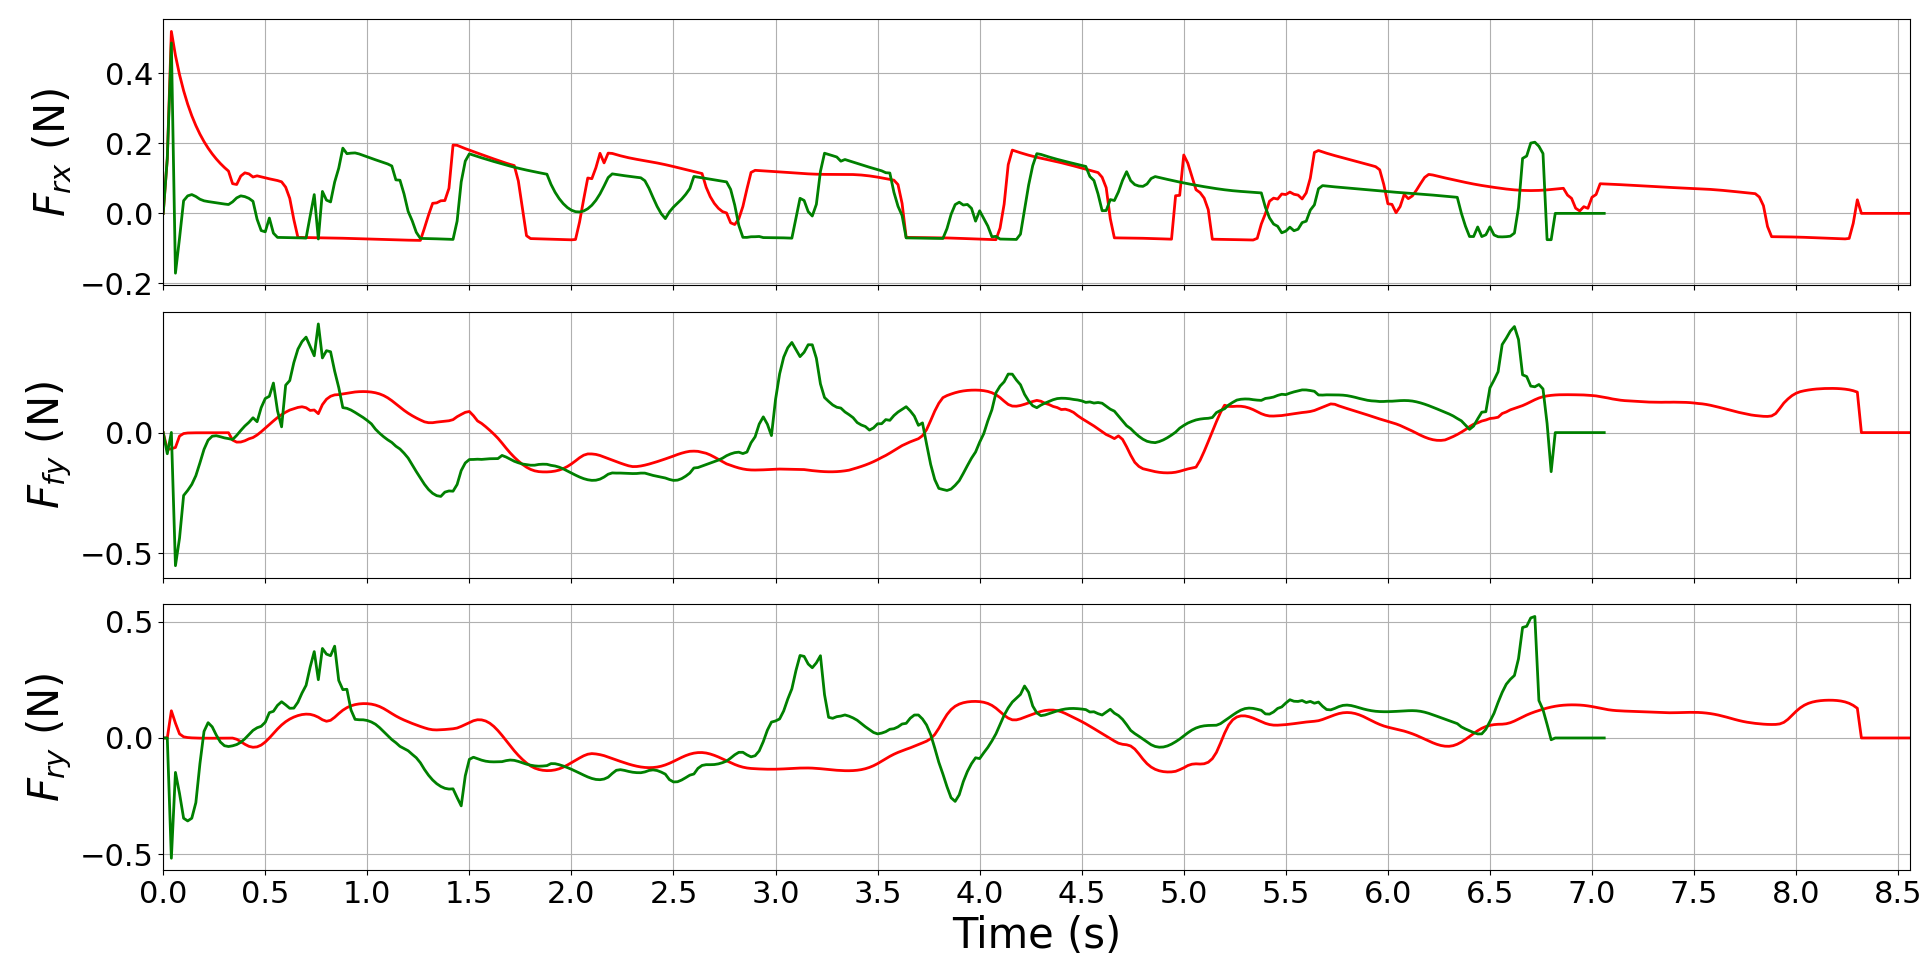
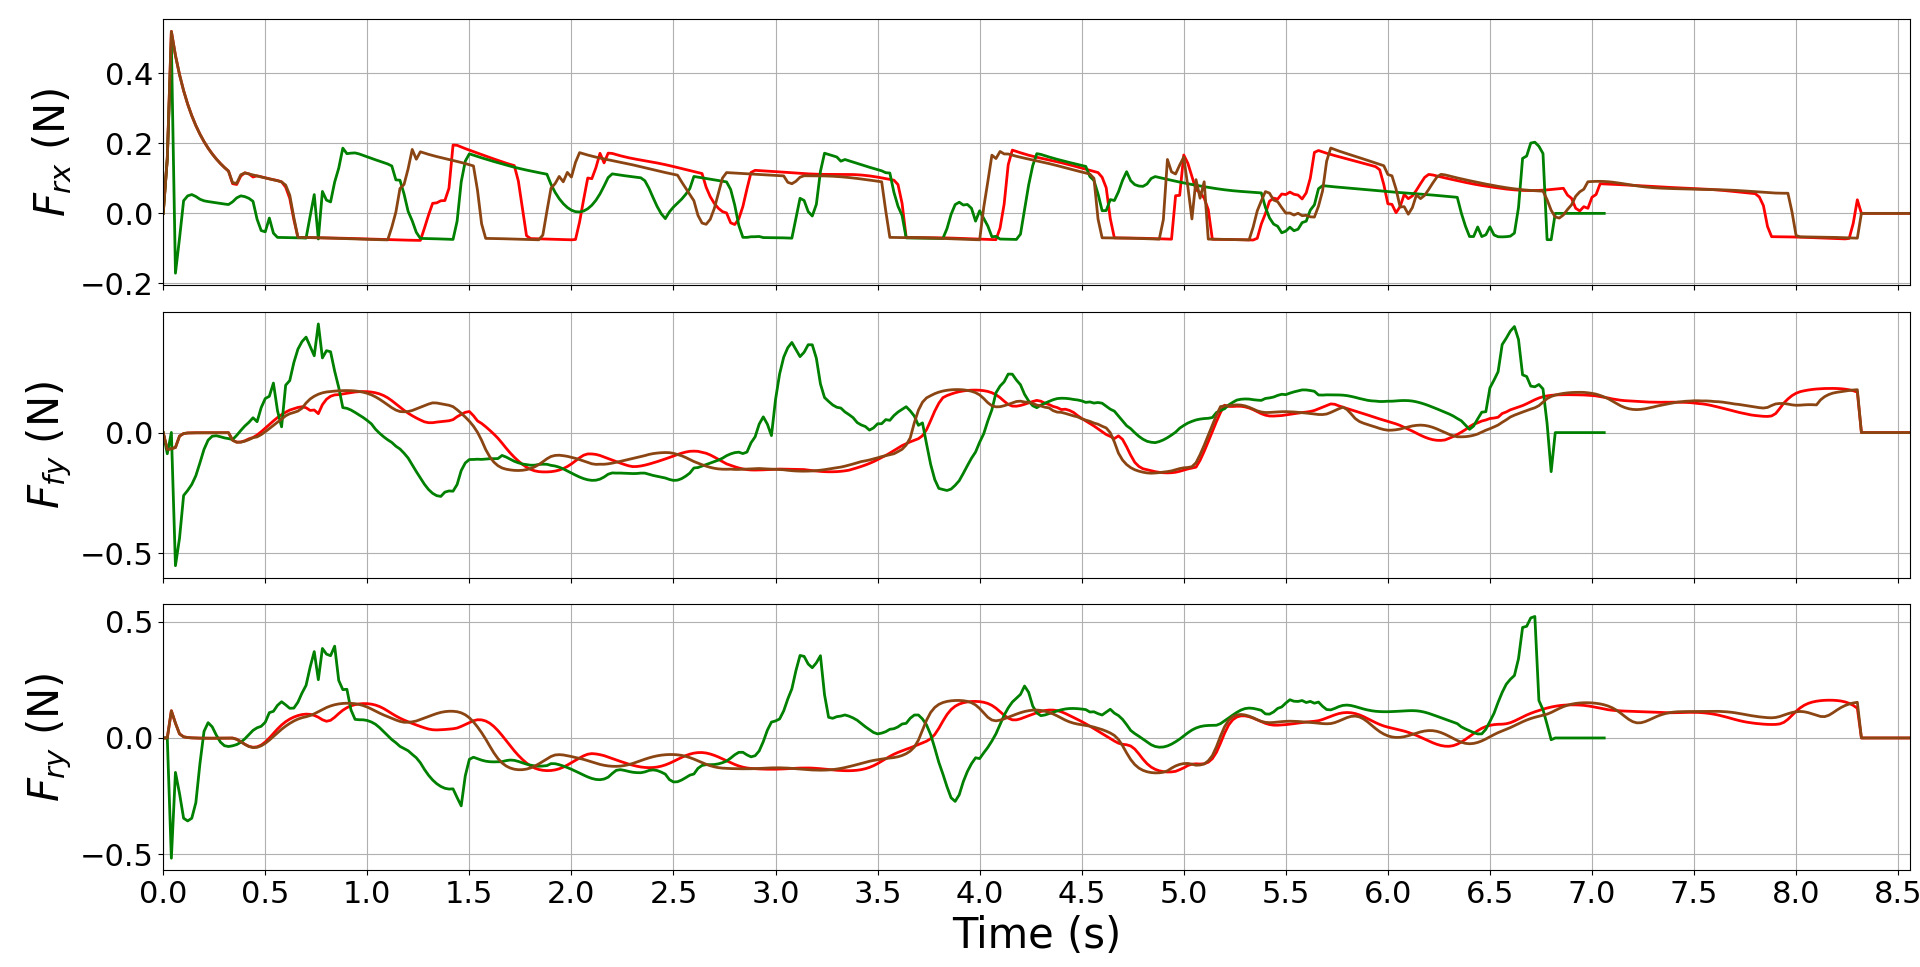
updated with INA

diff --git a/index.html b/index.html
@@ -49,16 +49,17 @@
 
   <div class="wrap">
 
-    <h1>LE-PAVD vs DDM Closed-Loop NMPC Results</h1>
+    <h1>Closed-Loop NMPC Results: DDM vs INA vs LE-PAVD</h1>
     <p class="sub">
-      DDM vs LE-PAVD runs on ETHZ / ETHZMobil tracks (closed-loop NMPC).
-      <span class="muted">Pure Pursuit is used for warm-up, 
-        then NMPC is applied once sufficient history is available. 
-        Both Models use the same NMPC formulation, but with different dynamics. <br>
-        Both models are trained on ETHZ track data and then evaluated on both ETHZ and completely unseen ETHZMobil tracks.
-      
+      Closed-loop NMPC runs on the ETHZMobil and ETHZ maps. <br>
+      <span class="muted">
+        Pure Pursuit is used for warm-up, then NMPC is applied once sufficient state/history is available.
+        All three variants (DDM, INA, and LE-PAVD) use the same NMPC formulation, controller parameters, constraints,
+        and reference trajectory; only the internal dynamics model differs.
+        All models are trained on ETHZ track data and evaluated on ETHZ and the unseen ETHZMobil track to assess generalization.
       </span>
     </p>
+
 
 
 
@@ -154,15 +155,22 @@
           <tr>
             <td>DDM</td><td>ETHZMobil</td><td>6.3</td><td>1.78</td><td>0.12</td><td>-0.02</td><td>None</td>
           </tr>
+          </tr>
+            <tr>
+            <td>INA</td><td>ETHZMobil</td><td>6.6</td><td>1.81</td><td>0.13</td><td>0.02</td><td>None</td>
+          </tr>
           <tr class="highlight">
             <td>LE-PAVD</td><td>ETHZMobil</td><td>5.7 <span style="color:green;">&darr;</span></td>
               <td>1.91 <span style="color:green;">&uarr;</span></td>
               <td>0.06</td>
               <td>-0.03</td>
               <td>None</td>
-          </tr>
+
           <tr>
             <td>DDM</td><td>ETHZ</td><td>8.6</td><td>1.88</td><td>-0.06</td><td>0.01</td><td>None</td>
+          </tr>
+          <tr>
+            <td>INA</td><td>ETHZ</td><td>8.1</td><td>1.96</td><td>-0.06</td><td>0.02</td><td>None</td>
           </tr>
           <tr class="highlight">
             <td>LE-PAVD</td><td>ETHZ</td><td>7.1 <span style="color:green;">&darr;</span></td>
